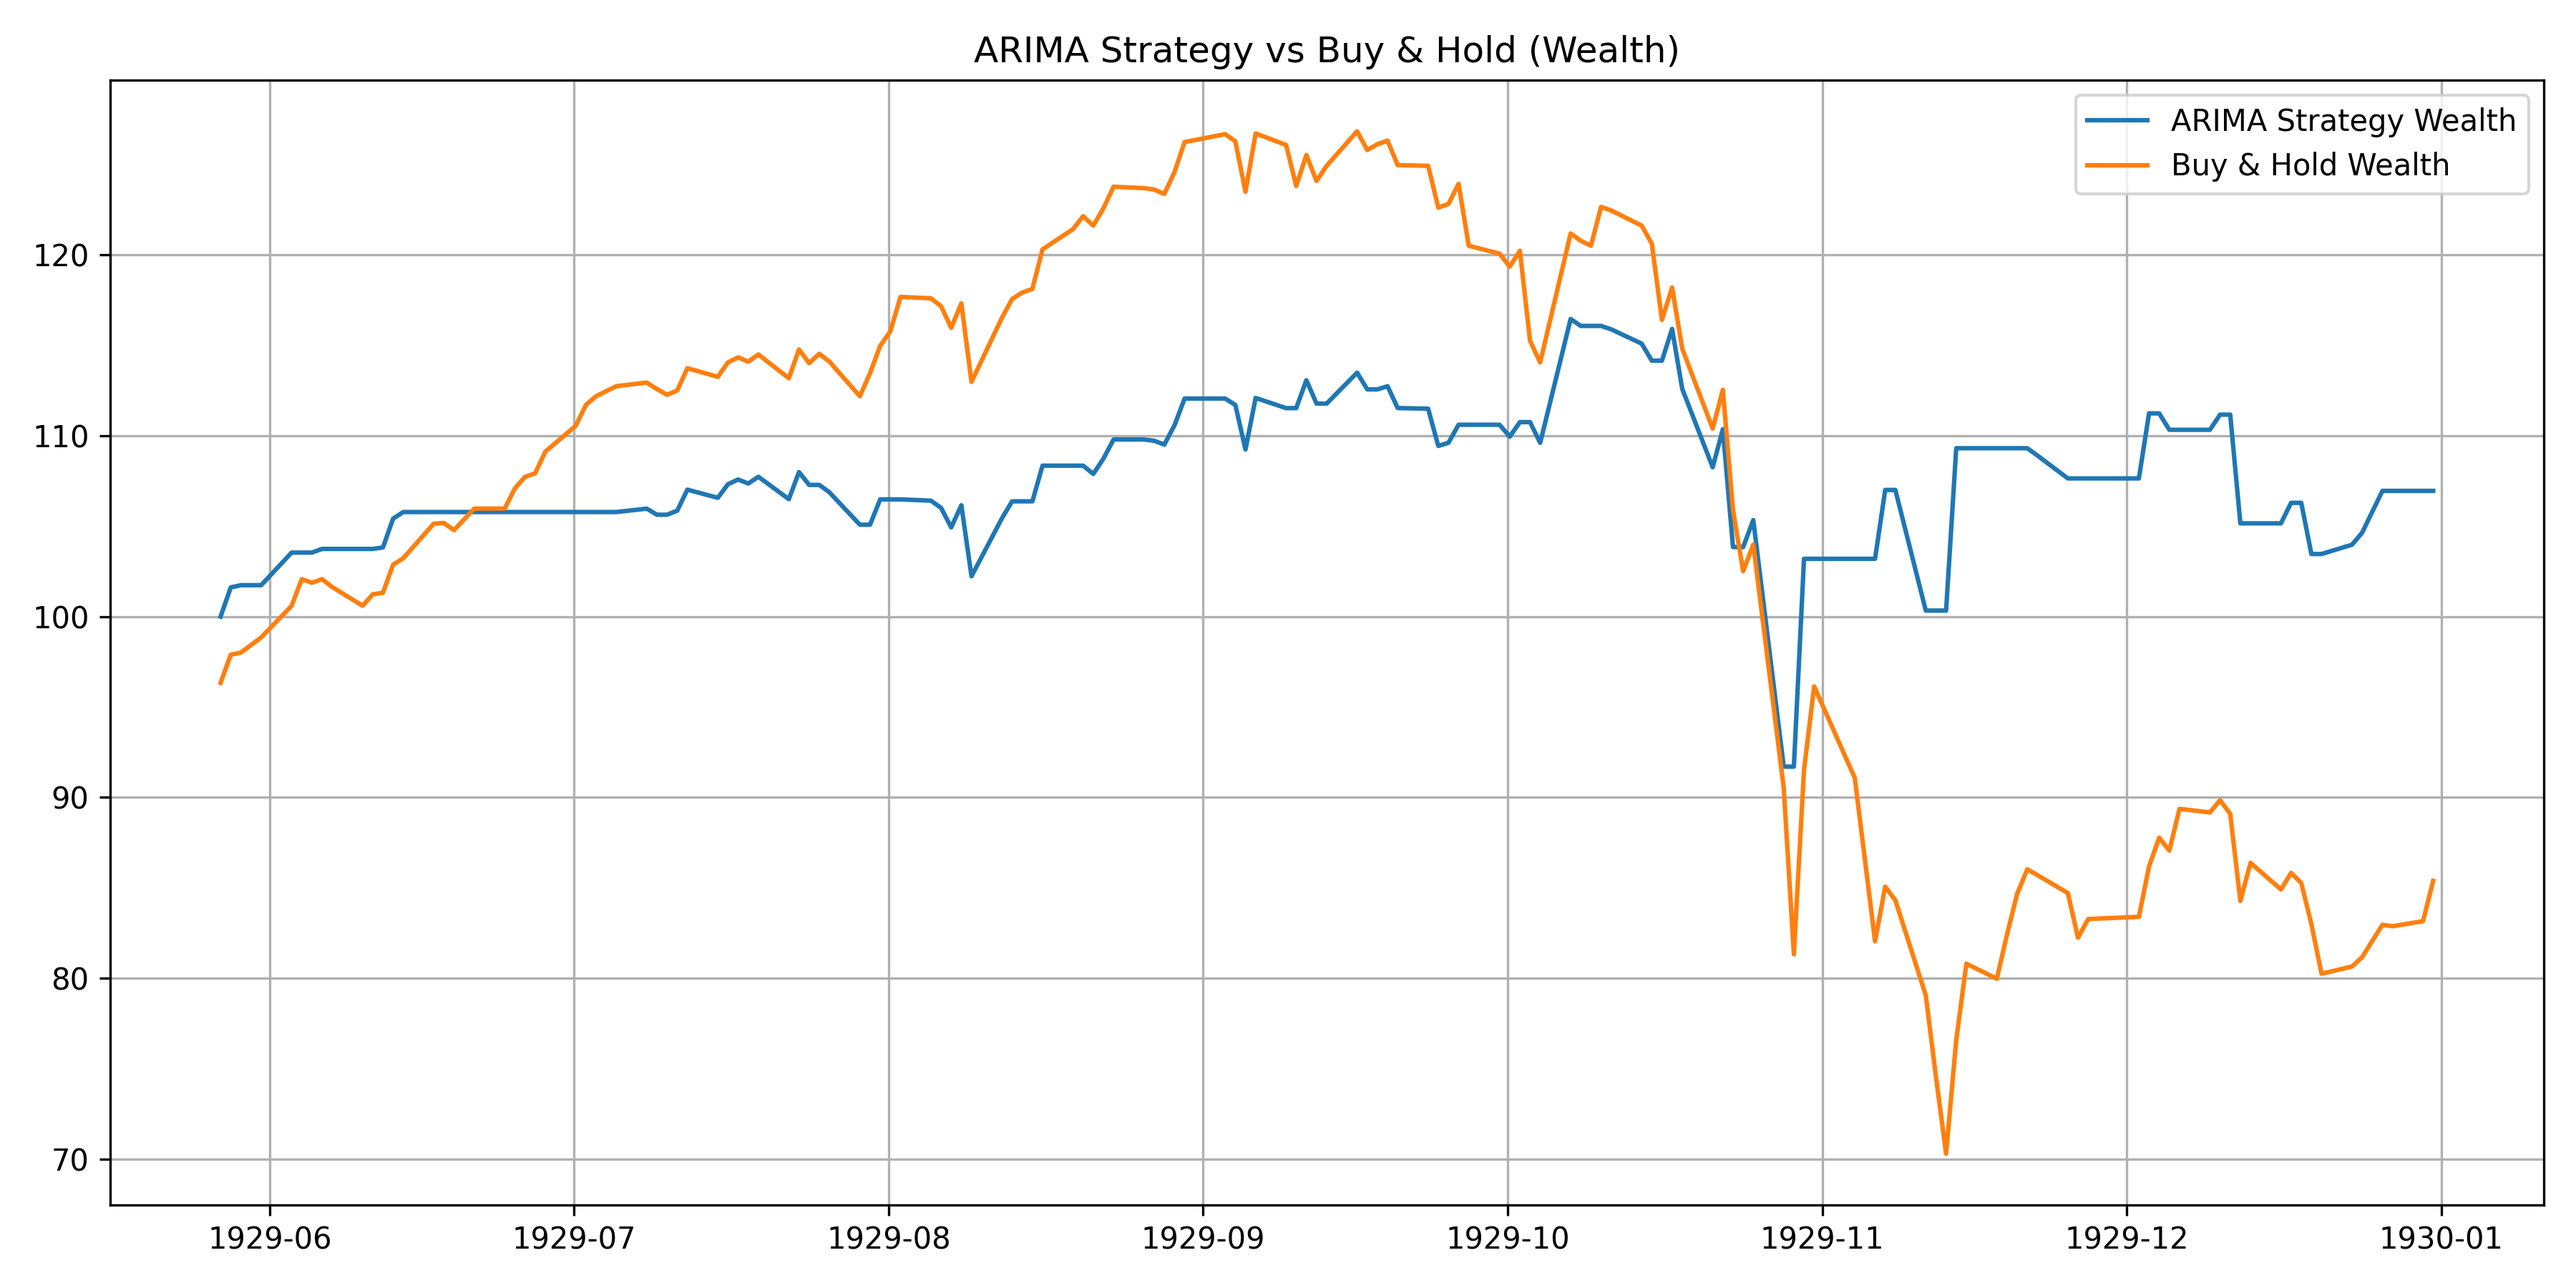
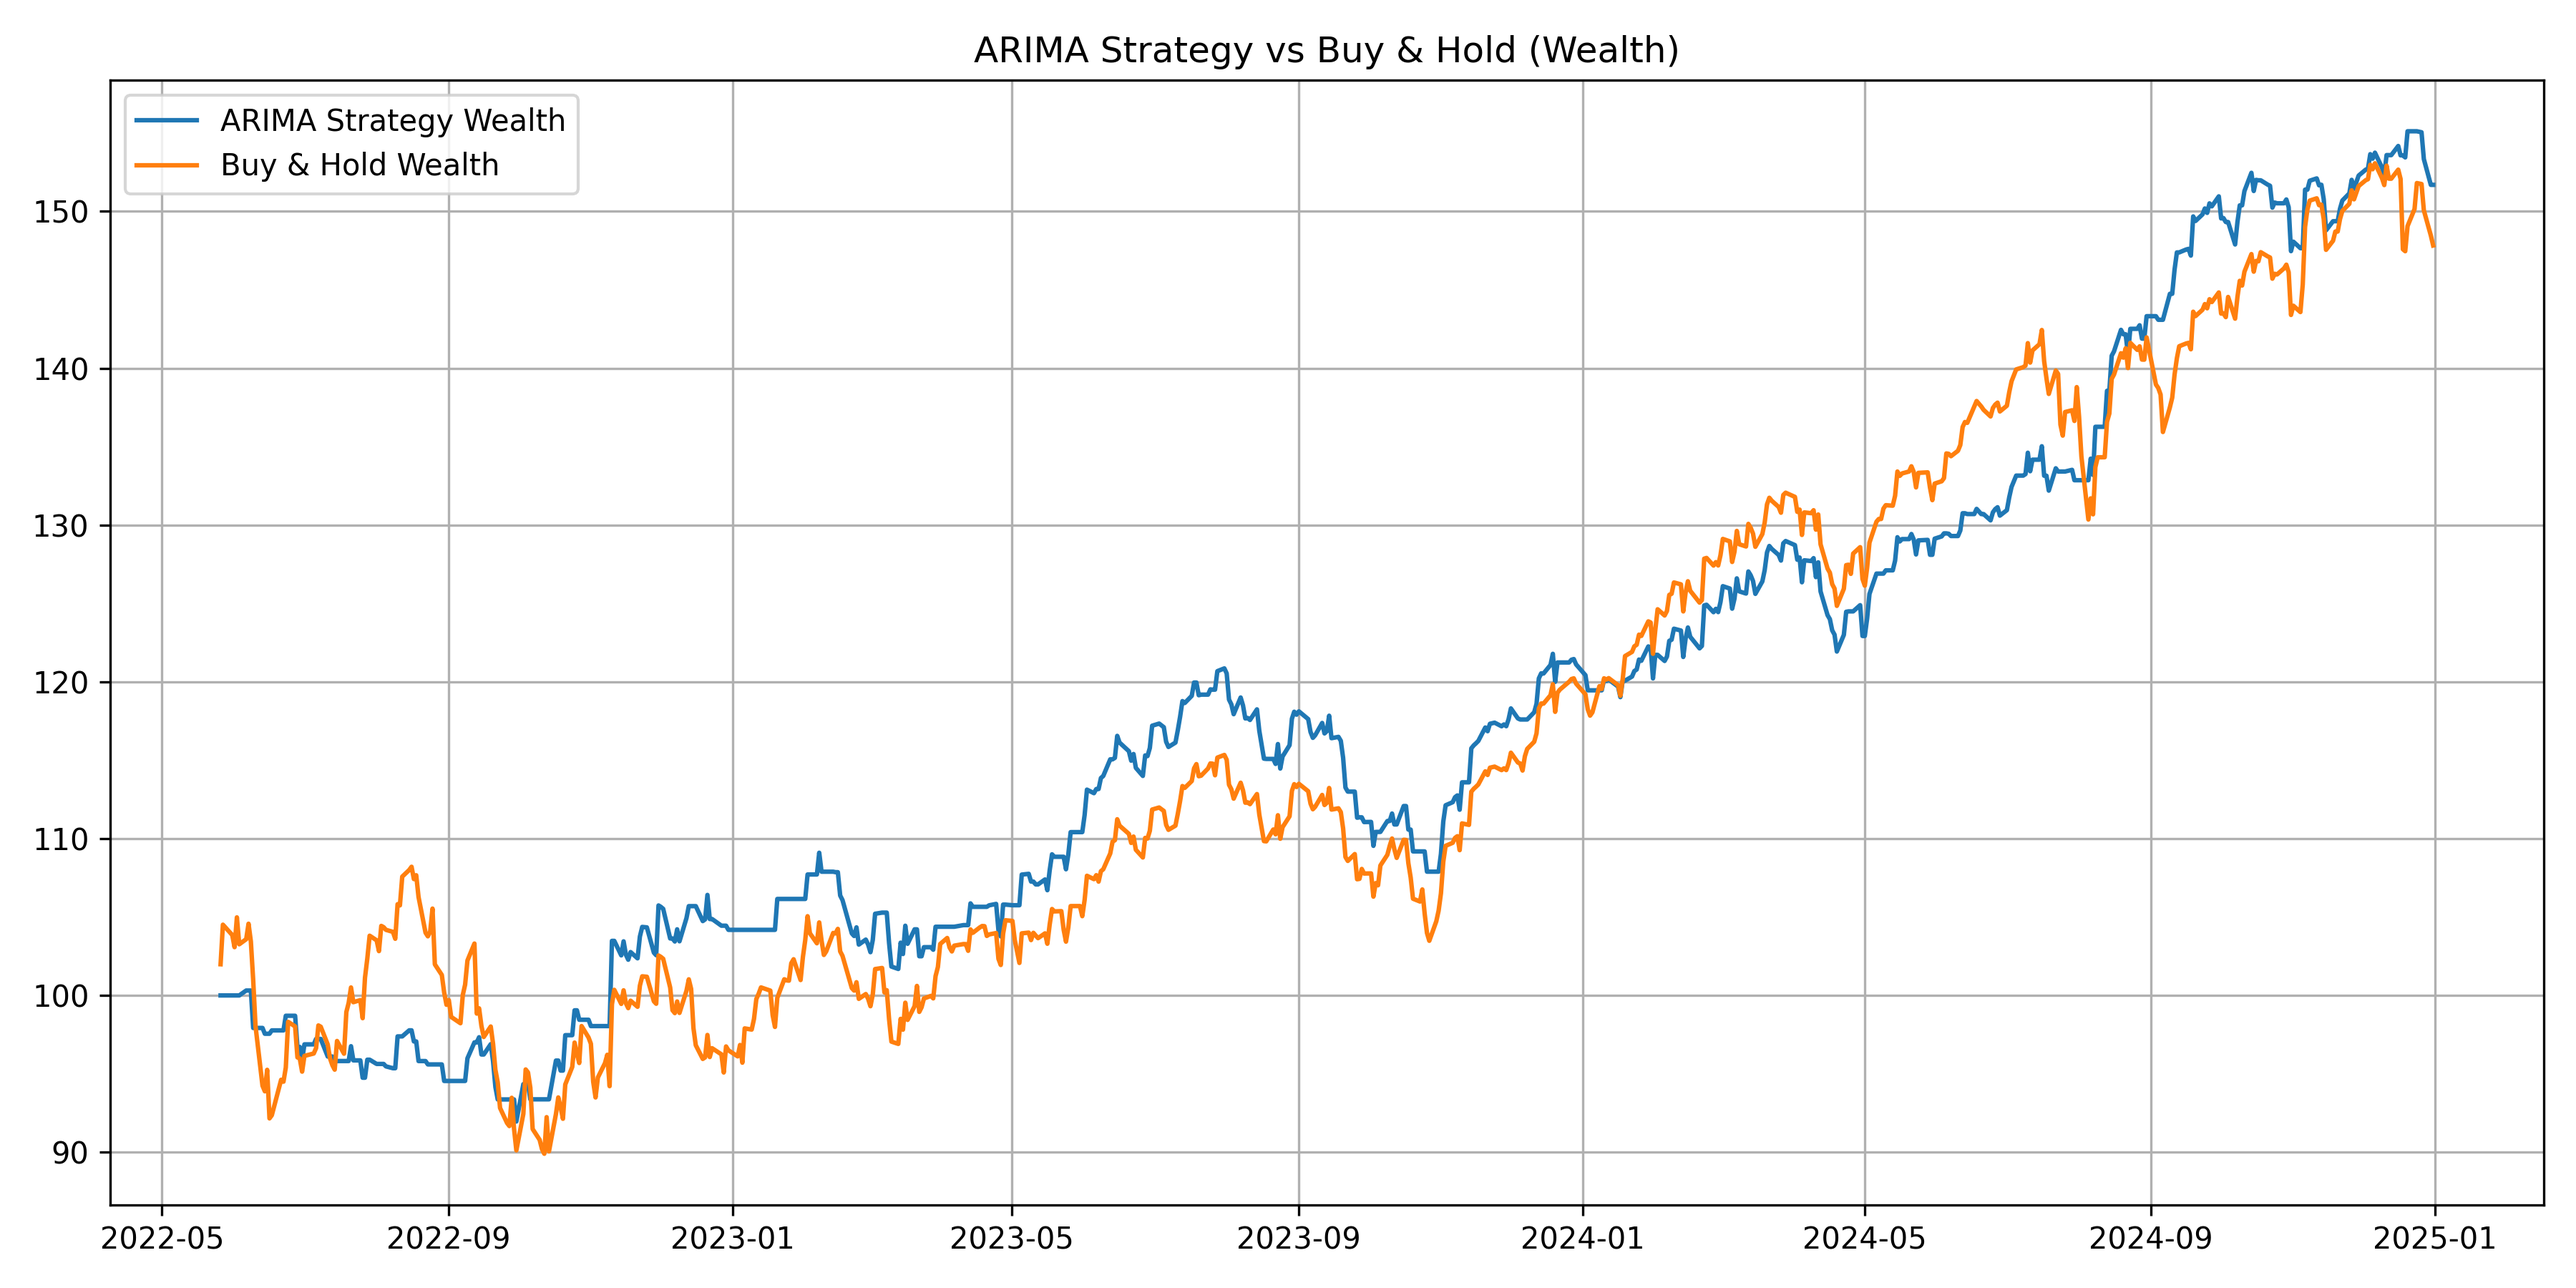
v1.3.2

diff --git a/CODE/ARIMA_trading.py b/CODE/ARIMA_trading.py
@@ -106,8 +106,8 @@ def arima_forecast(window_size,current_data):
     print(f"Final wealth ARIMA strategy={final_strategy:.2f} vs buy&hold={final_bh:.2f}, better? {final_strategy>final_bh}")
 
 #___________________________
-start_year = 1929
-end_year = 1929
+start_year = 2022
+end_year = 2024
 window_size = 100
 
 data = data[((data.index.year >= start_year) & (data.index.year <= end_year))]
